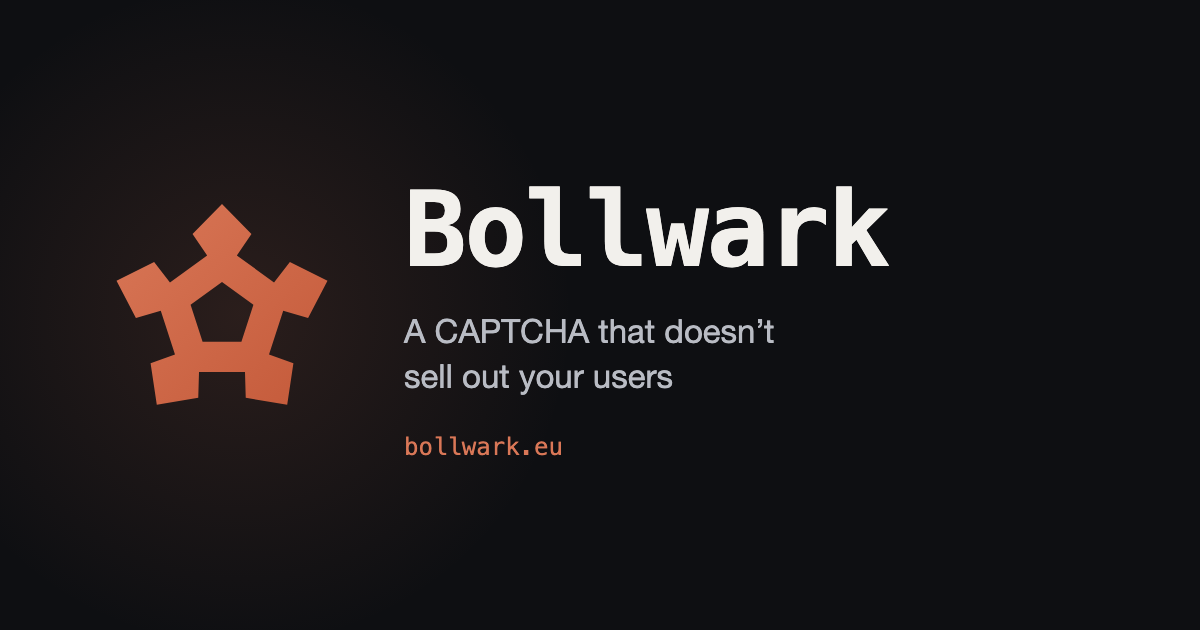
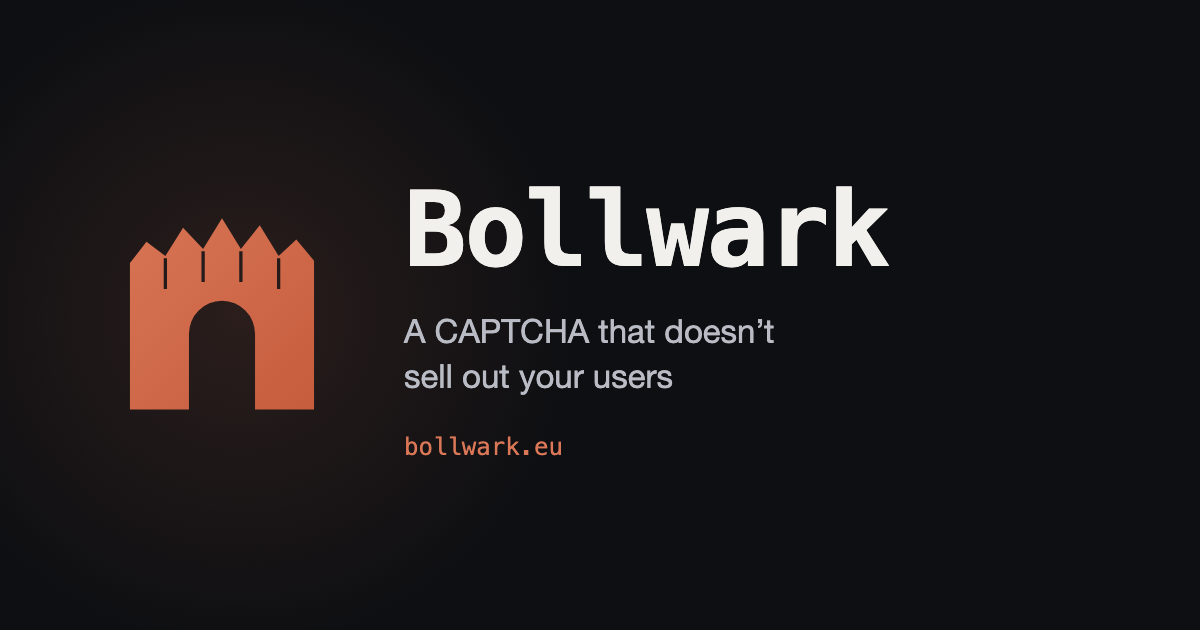
feat(static): replace star-fort mark with stockade gate

Changed region(s): [[0.0925, 0.3317, 0.2775, 0.6635]]

diff --git a/static/landing.html b/static/landing.html
@@ -812,7 +812,7 @@
   <header class="nav">
     <div class="wrap nav-inner">
       <a href="/" class="logo">
-        <svg class="logo-mark" viewBox="0 0 100 100" xmlns="http://www.w3.org/2000/svg" aria-hidden="true"><defs><linearGradient id="bwg-h" x1="0" y1="0" x2="1" y2="1"><stop offset="0" stop-color="#d97757"/><stop offset="1" stop-color="#c45a3a"/></linearGradient></defs><path fill="url(#bwg-h)" fill-rule="evenodd" d="M43.71 24.77 L37.52 15.70 L50.00 3.00 L62.48 15.70 L56.29 24.77 L72.05 36.22 L78.76 27.53 L94.70 35.48 L86.48 51.27 L75.94 48.19 L69.92 66.71 L80.26 70.41 L77.63 88.02 L60.06 85.09 L59.74 74.11 L40.26 74.11 L39.94 85.09 L22.37 88.02 L19.74 70.41 L30.08 66.71 L24.06 48.19 L13.52 51.27 L5.30 35.48 L21.24 27.53 L27.95 36.22 Z M50.00 36.00 L63.31 45.67 L58.23 61.33 L41.77 61.33 L36.69 45.67 Z"/></svg>
+        <svg class="logo-mark" viewBox="0 0 100 100" xmlns="http://www.w3.org/2000/svg" aria-hidden="true"><defs><linearGradient id="bwg-h" gradientUnits="userSpaceOnUse" x1="0" y1="0" x2="100" y2="100"><stop offset="0" stop-color="#d97757"/><stop offset="1" stop-color="#c45a3a"/></linearGradient></defs><path fill="url(#bwg-h)" fill-rule="evenodd" d="M11 90 L11 28 L18 19 L26 25 L33.5 13 L42 22 L50 9 L58 22 L66 12 L74 25 L81.5 18 L89 27 L89 90 Z M25.3 26 L26.7 26 L26.7 39 L25.3 39 Z M41.3 23 L42.7 23 L42.7 36 L41.3 36 Z M57.3 23 L58.7 23 L58.7 36 L57.3 36 Z M73.3 26 L74.7 26 L74.7 39 L73.3 39 Z M36 90 L36 58 A14 14 0 0 1 64 58 L64 90 Z"/></svg>
         <span>Bollwark</span>
       </a>
       <nav class="nav-links">
@@ -1252,7 +1252,7 @@ curl -X POST \
       <div class="footer-grid">
         <div class="footer-col footer-about">
           <div class="logo">
-            <svg class="logo-mark" viewBox="0 0 100 100" xmlns="http://www.w3.org/2000/svg" aria-hidden="true"><defs><linearGradient id="bwg-f" x1="0" y1="0" x2="1" y2="1"><stop offset="0" stop-color="#d97757"/><stop offset="1" stop-color="#c45a3a"/></linearGradient></defs><path fill="url(#bwg-f)" fill-rule="evenodd" d="M43.71 24.77 L37.52 15.70 L50.00 3.00 L62.48 15.70 L56.29 24.77 L72.05 36.22 L78.76 27.53 L94.70 35.48 L86.48 51.27 L75.94 48.19 L69.92 66.71 L80.26 70.41 L77.63 88.02 L60.06 85.09 L59.74 74.11 L40.26 74.11 L39.94 85.09 L22.37 88.02 L19.74 70.41 L30.08 66.71 L24.06 48.19 L13.52 51.27 L5.30 35.48 L21.24 27.53 L27.95 36.22 Z M50.00 36.00 L63.31 45.67 L58.23 61.33 L41.77 61.33 L36.69 45.67 Z"/></svg>
+            <svg class="logo-mark" viewBox="0 0 100 100" xmlns="http://www.w3.org/2000/svg" aria-hidden="true"><defs><linearGradient id="bwg-f" gradientUnits="userSpaceOnUse" x1="0" y1="0" x2="100" y2="100"><stop offset="0" stop-color="#d97757"/><stop offset="1" stop-color="#c45a3a"/></linearGradient></defs><path fill="url(#bwg-f)" fill-rule="evenodd" d="M11 90 L11 28 L18 19 L26 25 L33.5 13 L42 22 L50 9 L58 22 L66 12 L74 25 L81.5 18 L89 27 L89 90 Z M25.3 26 L26.7 26 L26.7 39 L25.3 39 Z M41.3 23 L42.7 23 L42.7 36 L41.3 36 Z M57.3 23 L58.7 23 L58.7 36 L57.3 36 Z M73.3 26 L74.7 26 L74.7 39 L73.3 39 Z M36 90 L36 58 A14 14 0 0 1 64 58 L64 90 Z"/></svg>
             <span>Bollwark</span>
           </div>
           <p>A privacy-first proof-of-work CAPTCHA service. Hosted by us, or self-hosted by you.</p>
